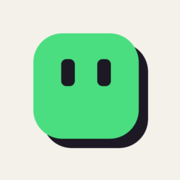
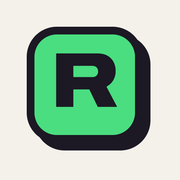
Drop the mascot face and tilted elements
The title is plain "Ricardo" with a flat version badge; the current
graph node no longer rotates. Favicon and social image follow suit.

Changed region(s): [[0.1389, 0.1389, 0.8611, 0.8611], [0.3056, 0.2778, 0.6667, 0.6111]]

diff --git a/src/styles.css b/src/styles.css
@@ -281,7 +281,7 @@ button {
   background: var(--green);
   border-color: var(--ink);
   box-shadow: 2px 2px 0 var(--ink);
-  transform: scale(1.3) rotate(-8deg);
+  transform: scale(1.3);
 }
 .graph a:focus-visible {
   outline-offset: 0;
@@ -407,7 +407,7 @@ button {
   box-shadow: 0 0 0 var(--ink);
 }
 
-/* The title: "Ricard" + the face + the version badge */
+/* The title: "Ricardo" + the version badge */
 .title {
   margin: 0;
   display: flex;
@@ -428,61 +428,6 @@ button {
 .title:focus-visible {
   outline: 3px solid var(--ink);
 }
-.word {
-  display: inline-flex;
-  align-items: baseline;
-  white-space: nowrap;
-}
-
-.face {
-  position: relative;
-  display: inline-block;
-  width: 0.6em;
-  height: 0.6em;
-  margin-left: 0.05em;
-  background: var(--green);
-  border: max(3px, 0.04em) solid var(--ink);
-  border-radius: 28%;
-  box-shadow: 0.04em 0.04em 0 var(--ink);
-  transition: background-color 0.35s;
-}
-.face i {
-  position: absolute;
-  top: 30%;
-  width: 0.085em;
-  height: 0.15em;
-  background: var(--ink);
-  border-radius: 0.03em;
-  transition:
-    height 0.3s var(--settle),
-    top 0.3s var(--settle),
-    transform 0.4s var(--spring);
-  animation: blink 0.24s 0.9s;
-}
-.face i:first-of-type {
-  left: 24%;
-}
-.face i:last-of-type {
-  right: 24%;
-}
-.face[data-mood="asleep"] {
-  background: var(--white);
-}
-.face[data-mood="asleep"] i {
-  top: 52%;
-  height: 0.035em;
-  animation: none;
-}
-.face[data-mood="aside"] i {
-  transform: translateX(0.07em);
-}
-@keyframes blink {
-  50% {
-    top: 42%;
-    height: 0.03em;
-  }
-}
-
 .badge {
   display: inline-block;
   padding: 0.04em 0.17em 0.08em;
@@ -492,7 +437,6 @@ button {
   box-shadow: 0.05em 0.05em 0 var(--ink);
   font-size: 0.74em;
   letter-spacing: -0.03em;
-  transform: rotate(-3deg);
   animation: stamp 0.5s var(--spring);
 }
 .badge.branch {
@@ -501,7 +445,7 @@ button {
 @keyframes stamp {
   from {
     opacity: 0;
-    transform: rotate(10deg) scale(1.5);
+    transform: scale(1.4);
   }
   50% {
     opacity: 1;

diff --git a/src/components/Release.jsx b/src/components/Release.jsx
@@ -12,18 +12,6 @@ const ORDER = ["breaking", "added", "changed", "known"];
 
 const accent = (name) => ({ "--accent": `var(--${name})` });
 
-// The last letter of "Ricardo" is the mascot. Awake on the current release,
-// asleep on old versions, glancing sideways from a branch.
-function Face({ mood }) {
-  return (
-    <span className="face" data-mood={mood}>
-      <span className="sr-only">o</span>
-      <i aria-hidden="true" />
-      <i aria-hidden="true" />
-    </span>
-  );
-}
-
 export function Tabs({ entry, tldr }) {
   return (
     <div className="tabs">
@@ -157,15 +145,11 @@ function Request() {
 }
 
 export default function Release({ entry, tldr, direction, headingRef }) {
-  const mood = entry.latest ? "awake" : entry.kind === "branch" ? "aside" : "asleep";
   return (
     <article className="sheet" style={accent(entry.accent)}>
       <Notice entry={entry} key={entry.kind} />
-      <h1 className="title" tabIndex={-1} ref={headingRef} aria-label={`Ricardo ${entry.badge}`}>
-        <span className="word">
-          Ricard
-          <Face mood={mood} />
-        </span>{" "}
+      <h1 className="title" tabIndex={-1} ref={headingRef}>
+        Ricardo{" "}
         <span className={`badge ${entry.kind}`} key={entry.slug}>
           {entry.badge}
         </span>
@@ -200,11 +184,8 @@ function Full({ open, children }) {
 export function NotFound() {
   return (
     <article className="sheet" style={accent("yellow")}>
-      <h1 className="title" tabIndex={-1} aria-label="Ricardo 404">
-        <span className="word">
-          Ricard
-          <Face mood="asleep" />
-        </span>{" "}
+      <h1 className="title" tabIndex={-1}>
+        Ricardo{" "}
         <span className="badge">404</span>
       </h1>
       <p className="sum">This version of Ricardo was never released.</p>

diff --git a/index.html b/index.html
@@ -12,8 +12,8 @@
     <meta property="og:image:width" content="1200" />
     <meta property="og:image:height" content="630" />
     <meta name="twitter:card" content="summary_large_image" />
-    <link rel="icon" href="/favicon.svg" type="image/svg+xml" />
     <link rel="icon" href="/favicon.ico" sizes="32x32" />
+    <link rel="icon" href="/favicon.png" type="image/png" sizes="192x192" />
     <link rel="apple-touch-icon" href="/apple-touch-icon.png" />
     <link rel="preload" href="/fonts/archivo-latin-wdth-normal.woff2" as="font" type="font/woff2" crossorigin />
     <link rel="preload" href="/fonts/schibsted-grotesk-latin-wght-normal.woff2" as="font" type="font/woff2" crossorigin />
